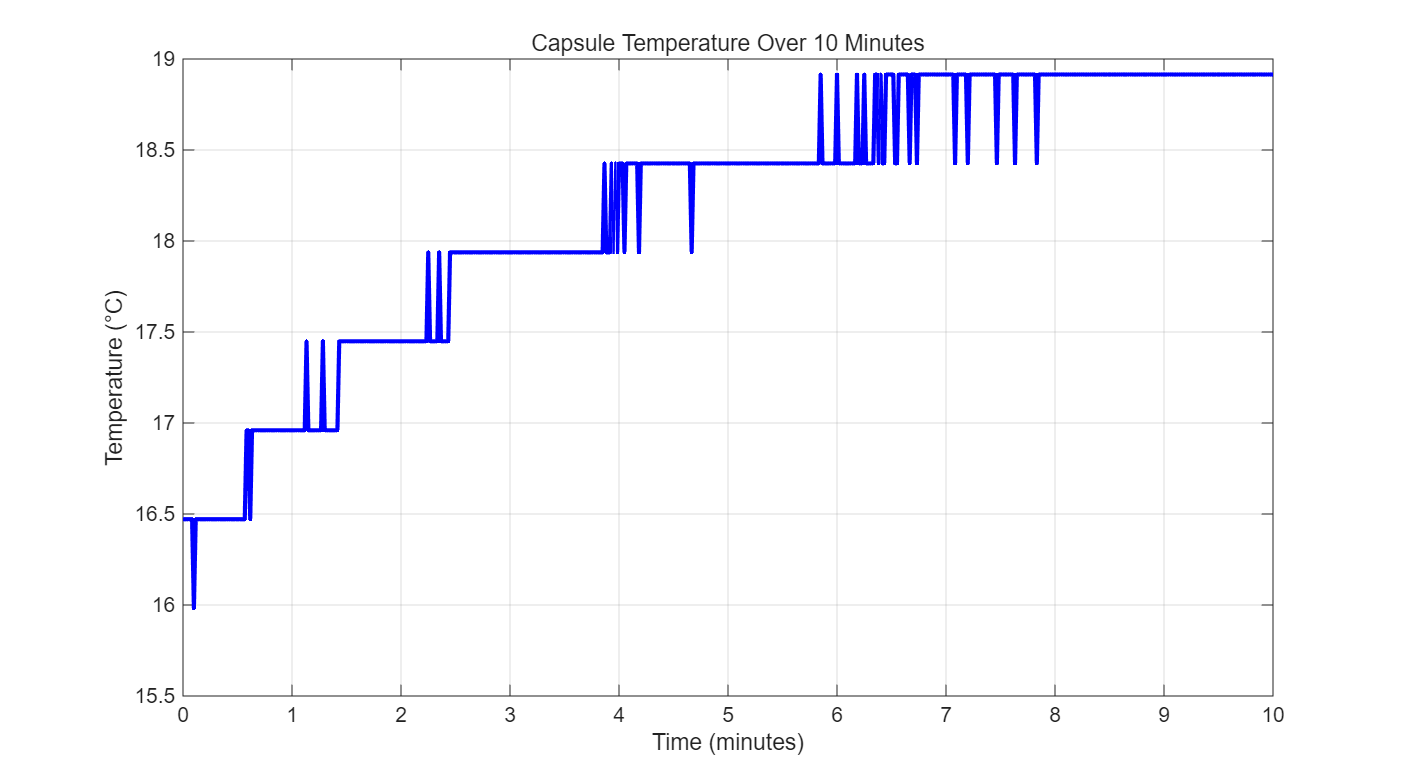
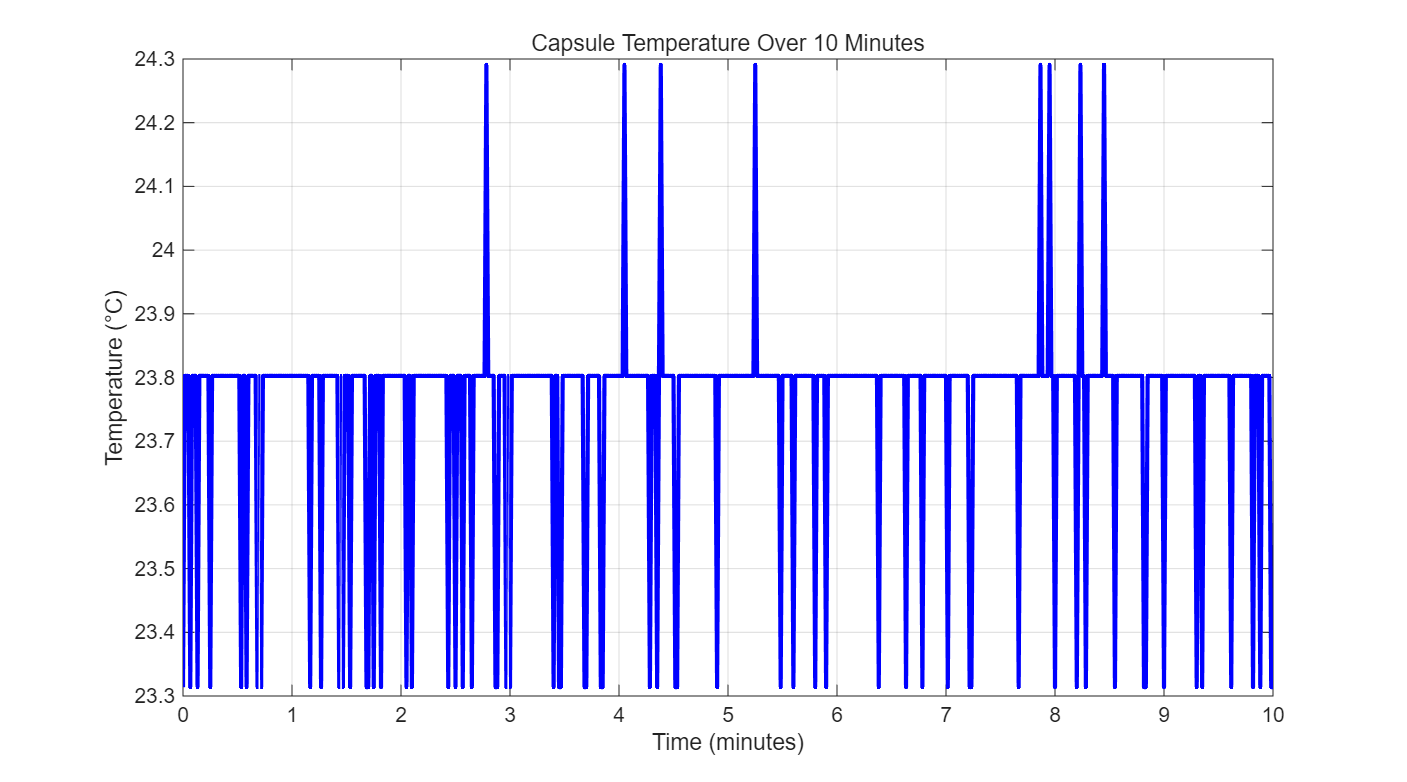
update

diff --git a/Script_template.m b/Script_template.m
@@ -4,9 +4,9 @@ clear;
 a = arduino('COM7', 'Uno'); 
 %% PRELIMINARY TASK - ARDUINO AND GIT INSTALLATION [5 MARKS]
 for i = 1:10
-    writeDigitalPin(a, 'D4', 1); 
+    writeDigitalPin(a, 'D10', 1); 
     pause(0.5);                   
-    writeDigitalPin(a, 'D4', 0);                  
+    writeDigitalPin(a, 'D10', 0);                  
 end
 
 %% TASK 1 - READ TEMPERATURE DATA, PLOT, AND WRITE TO A LOG FILE [20 MARKS]
@@ -75,11 +75,11 @@ fclose(fid_check);
 disp('done');
 
 %% TASK 2 - LED TEMPERATURE MONITORING DEVICE IMPLEMENTATION [25 MARKS]
-% temp_monitor
+temp_monitor(a);
 
 
 %% TASK 3 - ALGORITHMS – TEMPERATURE PREDICTION [30 MARKS]
-% temp_prediction
+temp_prediction(a);
 
 
 

diff --git a/temp_monitor.m b/temp_monitor.m
@@ -1,6 +1,4 @@
-clear;
-a = arduino('COM7', 'Uno');
-
+function temp_monitor(a)
 %% TASK 2 - LED TEMPERATURE MONITORING DEVICE IMPLEMENTATION [25 MARKS]
 
 % h)
@@ -27,7 +25,7 @@ t_start = tic;         % Start timer
 last_read = 0;
 
 % Read initial temperature
-Vout = readVoltage(a, 'A0');
+Vout = readVoltage(a, 'A0');05
 current_temp = (Vout - VOC) / TC;
 
 % Variables for blinking LEDs

diff --git a/temp_prediction.m b/temp_prediction.m
@@ -1,6 +1,4 @@
-clear;
-a = arduino('COM7', 'Uno');
-
+function temp_prediction(a)
 %% TASK 3 – ALGORITHMS – TEMPERATURE PREDICTION [30 MARKS]
 
 VOC = 0.5;
